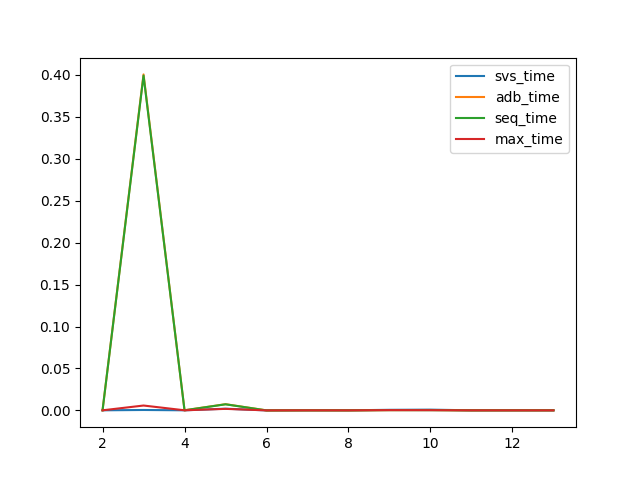
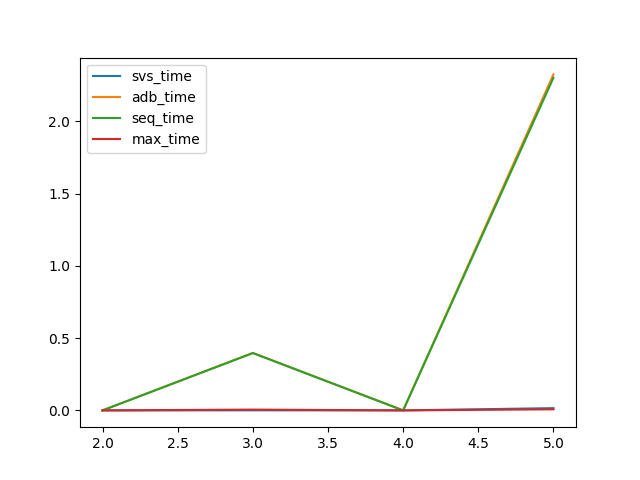
last version

diff --git a/main/__main__.py b/main/__main__.py
@@ -19,26 +19,32 @@ def main(args=None):
 
     queries.sort(key=len)
 
+    printList = False
+
     querylengthCounter = 1
     for query in queries:
         if(querylengthCounter < len(query)):
-            querylengthCounter = querylengthCounter + 1
+            # querylengthCounter = querylengthCounter + 1
+            pass
         else:
             continue
 
 
         lengthOfQuery.append(len(query))
 
-        print lengthOfQuery
+        # print query
         for tms in range(4):
             list_of_input = []
 
             for word in query:
+                print word,
                 # check whether word in our dict
                 if word in word_dict.keys():
                     list_of_input.append(
                         load_data(word_dict[word][0], word_dict[word][1]))
 
+            if(len(list_of_input)<=1):
+                break
 
             # print list_of_input
             if(tms==0):
@@ -46,7 +52,8 @@ def main(args=None):
                 start = time.time()
                 svs_intersection = Intersections(SVSIntersection)
                 interarr = svs_intersection.intersect(list_of_input)
-                print interarr,
+                if(printList):
+                    print interarr,
                 end = time.time()
                 print "svs_intersection " + str(end - start)
                 svs_time.append(end - start)
@@ -54,7 +61,8 @@ def main(args=None):
                 start = time.time()
                 adb_intersection = Intersections(ADBIntersection)
                 interarr = adb_intersection.intersect(list_of_input)
-                print interarr ,
+                if (printList):
+                    print interarr,
                 end = time.time()
                 print "ADB_intersection " + str(end - start)
                 adb_time.append(end - start)
@@ -63,7 +71,8 @@ def main(args=None):
                 start = time.time()
                 seq_intersection = Intersections(SEQIntersection)
                 interarr = seq_intersection.intersect(list_of_input)
-                print interarr ,
+                if (printList):
+                    print interarr,
                 end = time.time()
                 print "seq_intersection " + str(end - start)
                 seq_time.append(end - start)
@@ -71,12 +80,13 @@ def main(args=None):
                 start = time.time()
                 max_intersect = Intersections(MAXIntersection)
                 interarr = max_intersect.intersect(list_of_input)
-                print interarr ,
+                if (printList):
+                    print interarr,
                 end = time.time()
                 print "max_intersect " + str(end - start)
                 max_time.append(end - start)
 
-    # return
+    return
     plt.plot(lengthOfQuery,svs_time, label="svs_time")
     plt.plot(lengthOfQuery, adb_time, label="adb_time")
     plt.plot(lengthOfQuery, seq_time, label="seq_time")

diff --git a/main/Intersections.py b/main/Intersections.py
@@ -385,6 +385,7 @@ class Intersections():
             else:
                 return None
 
+
         lengthsorted = getListsAsSortedWRTLength(list_of_input_lists)
         intersectedArray = []
 
@@ -420,7 +421,7 @@ class Intersections():
                 # arrayin yeni halinde bizim eleman artik yok
                 lengthsorted[i] = lengthsorted[i][y:]
 
-
+                # print len(lengthsorted[0]),len(lengthsorted[1])
                 if(i==0):
                     if (valfound > x):
                         x = getEliminator(lengthsorted[0], popit=True)
@@ -443,6 +444,23 @@ class Intersections():
                         break
                     elif (valfound < x):
                         return intersectedArray
+                    #eger liste 2 lik ise buraya girmemiz gerekiyor
+                    elif (valfound == x):
+                        if(len(lengthsorted)==2):
+                            if (verbose):
+                                print "found : ", x, " eliminator index ", eliminatorListIndex
+                            intersectedArray.append(x)
+                            # TODO there is a problem here, will we keep get eliminator from the list which previous eliminator is taken or will we get eliminator from first list ?
+
+                            x = getEliminator(lengthsorted[0], popit=True)
+                            startat = 1
+
+                            for i in range(startat, len(lengthsorted)):
+                                dmmy = getEliminator(lengthsorted[i],popit=True)
+
+                            if(verbose):
+                                for i in range(len(lengthsorted)):
+                                    print "arr " , i , lengthsorted[i]
 
                 else:
                     if(valfound!=x):
@@ -454,6 +472,7 @@ class Intersections():
                     else:
 
                         if ((i == len(lengthsorted) - 1)):
+
                             if (verbose):
                                 print "found : ", x, " eliminator index ", eliminatorListIndex
                             intersectedArray.append(x)

diff --git a/main/query_parser.py b/main/query_parser.py
@@ -1,7 +1,7 @@
 import re
 import random
 
-def parse_queries(concat=True):
+def parse_queries(concat=False):
     queries = []
     with open("/home/ozgurgundogan/Desktop/Efficient-set-intersection-for-inverted-indexing/data/q-topics-org-SET1.txt") as q_file:
         for line in q_file:
